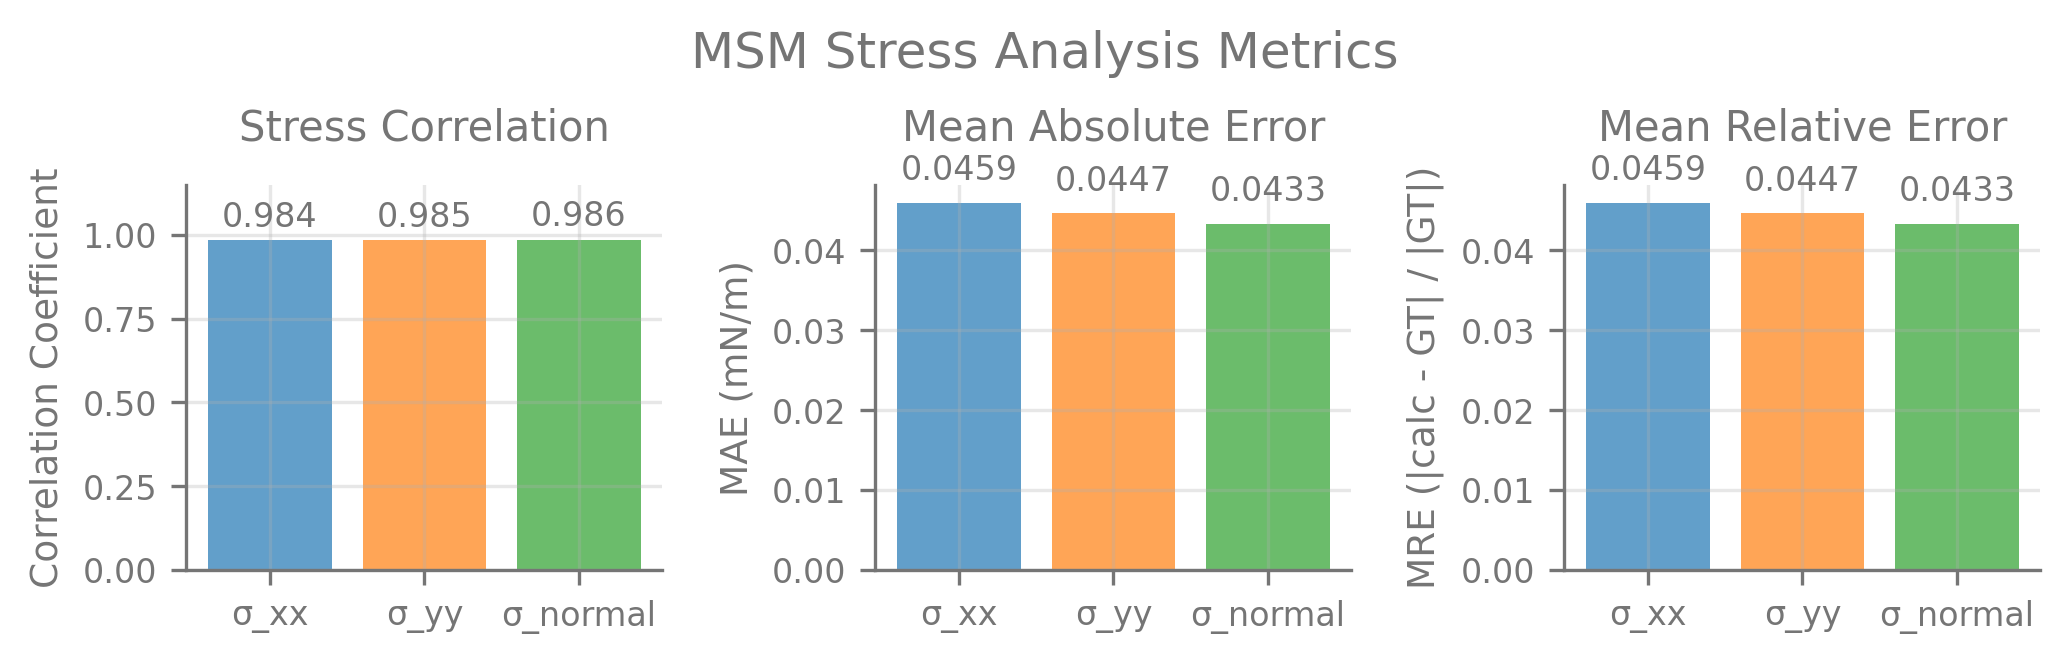
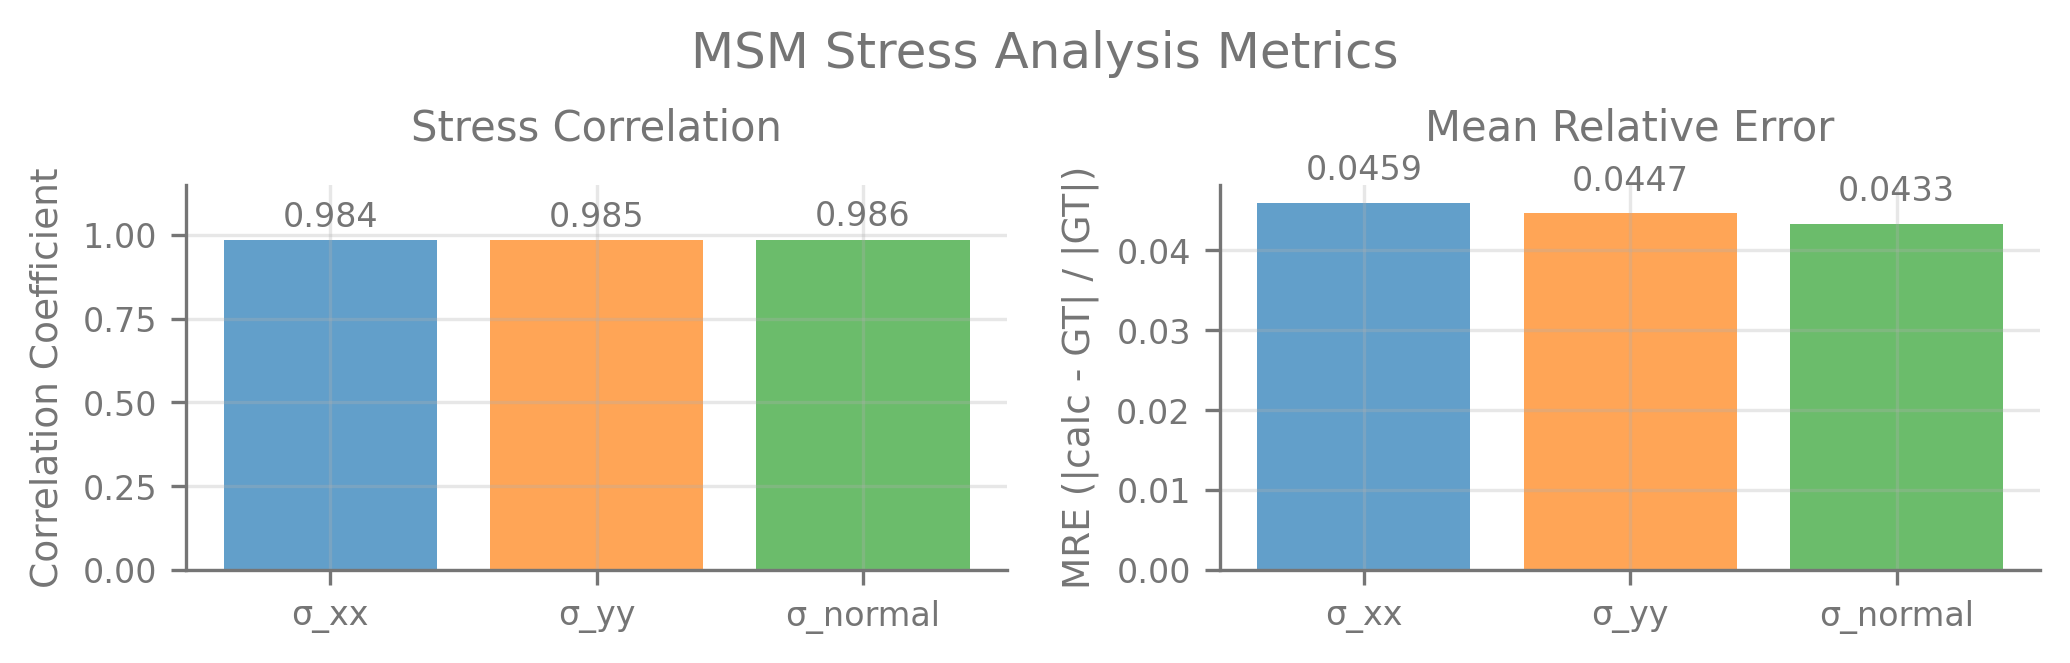
small correction

diff --git a/_validation/benchmark_MSM/validate_MSM.py b/_validation/benchmark_MSM/validate_MSM.py
@@ -505,7 +505,7 @@ def plot_square_plate_stress_metrics(stress_results, mask=None):
     stress_components = ['σ_xx', 'σ_yy', 'σ_normal']
     colors = {'σ_xx': '#1f77b4', 'σ_yy': '#ff7f0e', 'σ_normal': '#2ca02c'}
 
-    fig, axes = plt.subplots(1, 3, figsize=(7, 2.5))
+    fig, axes = plt.subplots(1, 2, figsize=(7, 2.5))
     fig.suptitle('MSM Stress Analysis Metrics', fontsize=12, y=0.875)
 
     # --- Left panel: Correlation bar chart ---
@@ -559,24 +559,24 @@ def plot_square_plate_stress_metrics(stress_results, mask=None):
             mae_values.append(0.0)
             mre_values.append(0.0)
 
-    # --- Middle panel: Mean Absolute Error bar chart ---
-    bars_mae = axes[1].bar(stress_components, mae_values, color=bar_colors, alpha=0.7)
-    axes[1].set_title('Mean Absolute Error', fontsize=10, y=1.05)
-    axes[1].set_ylabel('MAE (mN/m)', fontsize=9)
-    axes[1].grid(True, alpha=0.3)
-    axes[1].tick_params(labelsize=8)
-    for bar, val in zip(bars_mae, mae_values):
-        axes[1].text(bar.get_x() + bar.get_width()/2, bar.get_height() + 0.002,
-                     f'{val:.4f}', ha='center', va='bottom', fontsize=8)
+    # # --- Middle panel: Mean Absolute Error bar chart ---
+    # bars_mae = axes[1].bar(stress_components, mae_values, color=bar_colors, alpha=0.7)
+    # axes[1].set_title('Mean Absolute Error', fontsize=10, y=1.05)
+    # axes[1].set_ylabel('MAE (mN/m)', fontsize=9)
+    # axes[1].grid(True, alpha=0.3)
+    # axes[1].tick_params(labelsize=8)
+    # for bar, val in zip(bars_mae, mae_values):
+    #     axes[1].text(bar.get_x() + bar.get_width()/2, bar.get_height() + 0.002,
+    #                  f'{val:.4f}', ha='center', va='bottom', fontsize=8)
 
     # --- Right panel: Mean Relative Error bar chart ---
-    bars_mre = axes[2].bar(stress_components, mre_values, color=bar_colors, alpha=0.7)
-    axes[2].set_title('Mean Relative Error', fontsize=10, y=1.05)
-    axes[2].set_ylabel('MRE (|calc - GT| / |GT|)', fontsize=9)
-    axes[2].grid(True, alpha=0.3)
-    axes[2].tick_params(labelsize=8)
+    bars_mre = axes[1].bar(stress_components, mre_values, color=bar_colors, alpha=0.7)
+    axes[1].set_title('Mean Relative Error', fontsize=10, y=1.05)
+    axes[1].set_ylabel('MRE (|calc - GT| / |GT|)', fontsize=9)
+    axes[1].grid(True, alpha=0.3)
+    axes[1].tick_params(labelsize=8)
     for bar, val in zip(bars_mre, mre_values):
-        axes[2].text(bar.get_x() + bar.get_width()/2, bar.get_height() + 0.002,
+        axes[1].text(bar.get_x() + bar.get_width()/2, bar.get_height() + 0.002,
                      f'{val:.4f}', ha='center', va='bottom', fontsize=8)
 
     plt.tight_layout()
